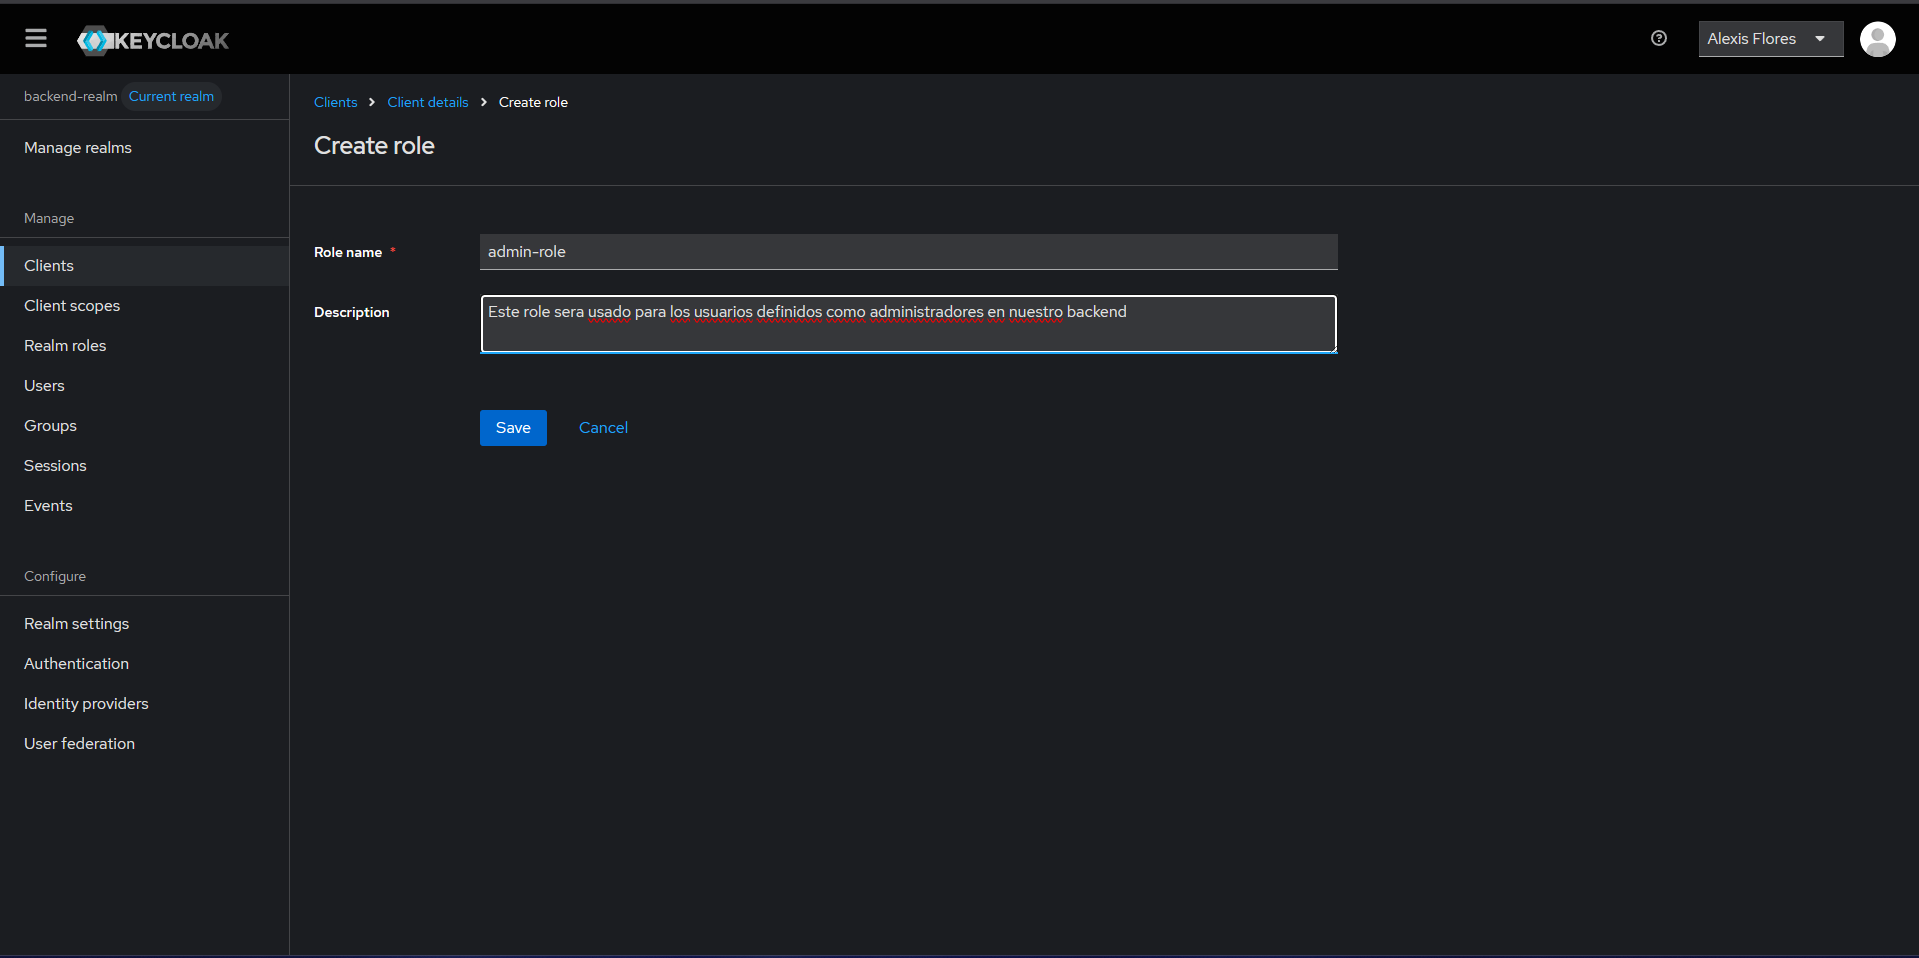
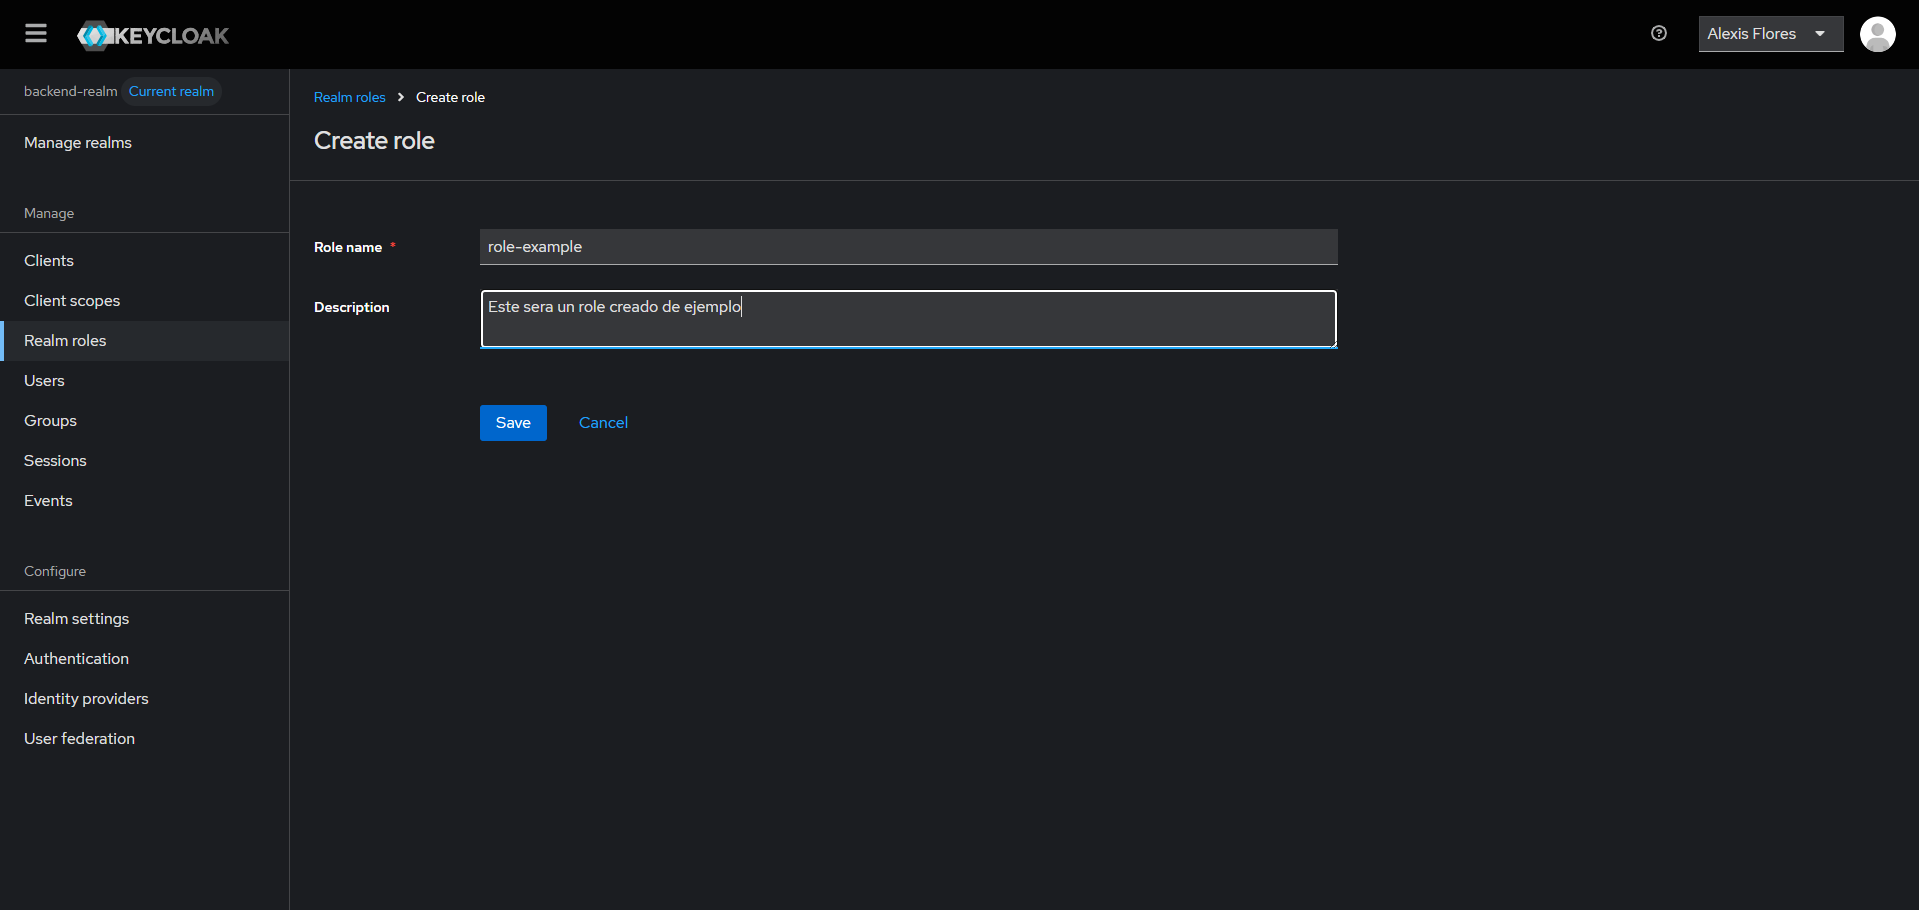
Adding all labo

diff --git a/codelab.md b/codelab.md
@@ -256,9 +256,9 @@ Se utiliza cuando queremos que nuestros roles tengan un alcance global en nuestr
 - Client roles
 Se utiliza cuando se quieren que los roles solo sean creados para un cliente en especifico.
 
-En esta ocasion, ya que estamos haciendo un patron BFF y el unico que podra acceder a nuestro Keycloak, es nuestra API a traves de su cliente, optaremos por crear roles en nuestro cliente.
+En esta ocasion, usaremos Realm Roles, ya que son mas faciles de manejar
 
-Para ello, nos dirigimos a la seccion de **Clients** hacemos clic en el que hemos creado, vamos al apartado de **Roles**, damos clic en **Create role** y creamos uno.
+Para ello, nos dirigimos a la seccion de **Realm Roles**, damos clic en **Create role** y creamos uno.
 Ejemplo:
 
 ![alt-text-here](./images/NewRole.png)
@@ -483,3 +483,363 @@ Al solicitrar esa interfaz en algun controlador de java o servicio, deberiamos o
 >aside positive
 > #### ✅Nueva tecnologia
 > Ahora ya sabemos un poco acerca del uso de OpenFeign y como se hacen peticiones a otras API's o Microservicios
+
+## Usando Keycloak con SpringBoot 
+
+### Autenticacion del cliente
+Ya que hemos aprendido como usar un poco OpenFeign, la teoria acerca de Keycloak y ya teniendo creados, nuestro realm, nuestro cliente y asignado los roles necesarios a nuestro cliente. El siguiente paso es hacer que nuestro cliente se pueda autenticar contra Keycloak y nos permita hacer peticiones para crear usuarios o que estos puedan consultar su token.
+
+En primera instancia, configuraremos la conexion entre nuestro cliente backend y keycloak
+
+### Creando carpetas
+
+Para ello necesitaremos algunas carpetas adicionales.
+Como sabemos, comunmente estamos trabajando con
+- Controller
+- Service
+    - ServiceImpl
+- Repository
+- Domain
+    - Entity
+    - DTO
+- Configuration o Config
+
+Ahora agregaremos algunas carpetas mas
+- Client
+    - Keycloak (dentro de Client)
+- Configuration o Config
+    - Keycloak (dentro de Config o Configuration)
+    - SpringSecurity (dentro de Config o Configuration)
+
+### Domain - DTO
+Antes de definir el metodo con el cual estaremos recibiendo tokens y enviandolos en nuestras peticiones a Keycloak, necesitamos definir cque recibiran o enviaran estas peticiones.
+Para ello crearemos nuestro DTO principal, con la siguiente forma:
+
+```java
+@Data
+public class KeycloakTokenResponse {
+    @JsonProperty("access_token")
+    private String accessToken;
+    @JsonProperty("expires_in")
+    private String expiresIn;
+    @JsonProperty("token_type")
+    private String tokenType;
+}
+```
+
+Este DTO permitira que Keycloak nos transmita nuestro token, el tiempo de expiracion y el tipo.
+
+### Config - Keycloak
+
+Ahora necesitamos definir algunas configuraciones principales para la conexion a Keycloak.
+
+Primero, necesitamos crear un objeto el cual sera el encargado de almacenar nuestras propiedades de Keycloak almacenadas en nuestro application.yml
+
+En primer lugar, necesitamos indicarle a nuestra aplicacion que queremos permitir el acceso a nuestro application.yml a traves de clases.
+
+Esto se hara desde nuestro MainApplication con la anotacion:
+```java
+@ConfigurationPropertiesScan
+```
+
+Spring Boot, por defecto, no escanea automáticamente las clases anotadas con @ConfigurationProperties si no están registradas como beans (por ejemplo, con @Component o en un @Bean en una clase @Configuration)
+
+Asi que esto solucionara ese problema
+
+haciendo que nuestro MainApplication ahora tenga la siguiente estructura:
+```java
+@SpringBootApplication
+@EnableFeignClients
+@ConfigurationPropertiesScan
+public class DemoKeycloakApplication {
+
+    public static void main(String[] args) {
+        SpringApplication.run(DemoKeycloakApplication.class, args);
+    }
+
+}
+```
+#### KeycloakProperties
+Una vez realizada esta configuracion, ahora si procederemos a crear un archivo llamado **KeycloakProperties** dentro de Config -> Keycloak, el cual tendra el siguiente bloque de codigo:
+```java
+@ConfigurationProperties(prefix = "keycloak")
+@Data
+public class KeycloakProperties {
+    private String serverUrl;
+    private String clientId;
+    private String clientSecret;
+    private String realm;
+}
+```
+
+Esto extraera automaticamente las propiedades en nuestro application.yml y los inyectara en esa clase cada vez que se use.
+
+#### KeycloakAuthFeignConfig
+El archivo KeycloakAuthFeignConfig configura cómo Feign (OpenFeign) enviará datos codificados en formularios (application/x-www-form-urlencoded), que es el formato requerido por Keycloak para obtener el token de acceso (en el flujo de password o client_credentials).
+
+Este archivo tiene las siguientes funciones principales:
+- Permite que Feign haga login correctamente en Keycloak
+- Convierte peticiones Java a x-www-form-urlencoded (formato necesario para keycloak)
+
+Sabiendo la funcionalidad que tendra este archivo, procederemos a crearlo, teniendo este la siguiente estructura:
+
+```java
+@Configuration
+public class KeycloakAuthFeignConfig {
+
+    private final ObjectFactory<HttpMessageConverters> messageConverters;
+
+    public KeycloakAuthFeignConfig(ObjectFactory<HttpMessageConverters> messageConverters) {
+        this.messageConverters = messageConverters;
+    }
+
+    @Bean
+    public FormEncoder feignFormEncoder() {
+        return new FormEncoder(new SpringEncoder(this.messageConverters));
+    }
+}
+```
+
+### Client - Keycloak
+Antes de seguir creando archivos de configuracion, necesitamos crear nuestro metodo para obtener el token de Keycloak con OpenFeign (este metodo aplica tanto para clientes como para usuarios normales)
+
+#### iKeycloakAuthClient
+Procederemos a crear nuestra primera interfaz de autenticacion con la cual obtendremos el token de un usuario/client deseado. Archivo para el cual usaremos la siguiente estructura:
+
+```java
+//Define un cliente de OpenFeign con el nombre keycloak-service en la url donde esta almacenado nuestra instancia de Keycloak
+//La linea de configuration permite interceptar la peticion y configurar el formato a uno valido para Keycloak
+@FeignClient(name = "keycloak-service", url = "${keycloak.server-url}", configuration = KeycloakAuthFeignConfig.class)
+public interface iKeycloakAuthClient {
+    // Metodo de tipo post realizado a nuestro realm, mediante el protocolo openid-connect que obtendra un token y envia un Body de tipo MultiValueMap<String, String> con el nombre formData. Esta funcion devuelve un KeycloakTokenResponse, definido anteriormente
+    @PostMapping(value = "/realms/${keycloak.realm}/protocol/openid-connect/token", consumes = MediaType.APPLICATION_FORM_URLENCODED_VALUE)
+    public KeycloakTokenResponse getToken(@RequestBody MultiValueMap<String, String> formData);
+
+}
+```
+
+
+### Config - Keycloak
+Volviendo a nuestro paquete de configuraciones de Keycloak, ahora necesitamos crear alguna forma de interceptar nuestras peticiones para que estas puedan obtener un token valido para nuestro cliente y podamos realizar operaciones asociadas a nuestros roles como cliente
+
+#### KeycloakFeignInterceptorConfig
+
+Este archivo permitira, cada vez que se haga una peticion, obtener un token valido para nuestro cliente (Solo cuando se tengan que hacer proceso administrativos como crear clientes).
+
+Este tendra la siguiente estructura:
+``` java
+@Configuration
+@RequiredArgsConstructor
+public class KeycloakFeignInterceptorConfig {
+    // A traves de keycloakAuthClient podemos acceder al metodo getToken
+    private final iKeycloakAuthClient keycloakAuthClient;
+    // Obtenemos las properties asociadas en nuestro application.yml
+    private final KeycloakProperties keycloakProperties;
+
+    @Bean
+    public RequestInterceptor getKeycloakAuthInterceptor() {
+        return requestTemplate -> {
+            //devolvemos una requestTemplate con un MultiValueMap<String, String> que contendra los siguientes valores
+            MultiValueMap<String, String> form = new LinkedMultiValueMap<>();
+            // El Id de nuestro Client en Keycloak
+            form.add("client_id", keycloakProperties.getClientId());
+            // El Secret de nuestro Client en Keycloak
+            form.add("client_secret", keycloakProperties.getClientSecret());
+            //Especificamos que el tipo de entidad que se esta autenticando es un client mediante client credentials
+            form.add("grant_type", "client_credentials");
+
+            //Obtenemos un token valido para nuestro cliente
+            KeycloakTokenResponse token = keycloakAuthClient.getToken(form);
+
+            //Lo inyectamos en el header de nuestra peticion
+            requestTemplate.header("Authorization", "Bearer " + token.getAccessToken());
+        };
+    }
+}
+```
+### Client - Keycloak
+
+#### iKeycloakAdminClient
+Una vez creada la logica para la intercepcion de peticiones a Keycloak y como autenticar a nuestro cliente, necesitamos crear el metodo para registrar usuarios en nuestra instancia.
+Para ello, crearemos una interfaz con OpenFeign que nos permitira realizar este proceso. Esta interfaz tendra la siguiente estructura:
+```java
+///Define un cliente de Feign llamado feign-admin que apunta al url donde esta nuestra instancia de Keycloak y mediante configuracion, permitira que la peticion sea interceptada y se pueda inyectar un token valido para nuestro cliente
+@FeignClient(name = "feign-admin", url = "${keycloak.server-url}", configuration = KeycloakFeignInterceptorConfig.class)
+public interface iKeycloakAdminClient {
+    //Metodo post realizado al realm que hemos creado al apartado de users que nos devolvera una Response de Feign (Asegurar que la importacion de Response venga de import feign.Response)
+    @PostMapping("/admin/realms/${keycloak.realm}/users")
+    Response createUser(@RequestBody Map<String, Object> user);
+}
+```
+
+### Config - SpringSecurity
+#### SecurityConfig
+Muy probablemente, si implementamos un controlador e intentamos acceder a el, obtendremos Unauthorized en nuestras peticiones. Y es que a pesar de tener configurada la emision de JWT con Keycloak, aun no hemos definido que rutas estaran o no protegidas para ciertos roles o momentos.
+Para ello, configuraremos el Security de Spring de la siguiente manera.
+Procedemos a crear el archivo SpringSecurity, el cual tendra la siguiente estructura:
+```java
+@Configuration
+@EnableWebSecurity
+public class SecurityConfig {
+
+    @Bean
+    public SecurityFilterChain filterChain(HttpSecurity http) throws Exception {
+        http
+                .csrf(AbstractHttpConfigurer::disable)
+                .authorizeHttpRequests(auth -> auth
+                        .requestMatchers("/api/demo/register","/api/demo/login" , "/public/**").permitAll()
+                        .anyRequest().authenticated()
+                )
+                .oauth2ResourceServer(resource -> resource.jwt(jwt -> jwt.jwtAuthenticationConverter(new JwtAuthConverter())));
+        return http.build();
+    }
+}
+```
+Donde en **RequestMatchers**.permitAll(), se encontraran todas las rutas que deseamos dejar abiertas.
+
+>aside negative
+> #### ⚠ Importante
+> Probablemente este ultimo codigo nos de error, para ello, necesitamos crear unos cuantos archivos que se detallan en la siguiente pagina
+
+## Otros archivos necesarios
+### Service
+```java
+public interface iAuthService {
+
+    KeycloakTokenResponse register(CreateUserDTO user) throws Exception;
+    KeycloakTokenResponse login(String username, String password);
+}
+```
+#### Service - ServiceImpl
+```java
+@Service
+@RequiredArgsConstructor
+public class AuthServiceImpl implements iAuthService {
+
+    private final iKeycloakAdminClient keycloakAdminClient;
+    private final iKeycloakAuthClient keycloakAuthClient;
+    private final KeycloakProperties keycloakProperties;
+
+    @Override
+    public KeycloakTokenResponse register(CreateUserDTO user) throws Exception {
+        Response response = keycloakAdminClient.createUser(createUserDtoToMap(user));
+        if (response.status() != 201) throw new Exception("Failed to create user: " + new String(response.body().asInputStream().readAllBytes(), StandardCharsets.UTF_8));
+        String userId = getUserIdFromKeycloakResponse(response);
+        return login(user.getUserName(), user.getPassword());
+    }
+
+    @Override
+    public KeycloakTokenResponse login(String username, String password) {
+        return keycloakAuthClient.getToken(loginToFormData(username, password, keycloakProperties.getClientId(), keycloakProperties.getClientSecret()));
+    }
+}
+```
+
+### Utils
+```java
+public class UserIdFromKeycloak {
+    public static String getUserIdFromKeycloakResponse(Response response){
+        String location = response.headers().get("Location").stream()
+                .findFirst()
+                .orElseThrow(() -> new RuntimeException("Location header not found in response"));
+        return location.substring(location.lastIndexOf("/") + 1);
+    }
+}
+```
+### Utils - Mappers
+```java
+public class GeneralMappers {
+    public static Map<String, Object> createUserDtoToMap(CreateUserDTO user) {
+        return Map.of(
+                "username", user.getUserName(),
+                "email", user.getEmail(),
+                "firstName", user.getFirstName(),
+                "lastName", user.getLastName(),
+                "enabled", true,
+                "emailVerified", true,
+                "credentials", List.of(Map.of("type", "password", "value", user.getPassword(), "temporary", false))
+        );
+    }
+
+    public static MultiValueMap<String, String> loginToFormData(String username, String password, String clientId, String clientSecret) {
+        MultiValueMap<String, String> formData = new LinkedMultiValueMap<>();
+        formData.add("username", username);
+        formData.add("password", password);
+        formData.add("grant_type", "password");
+        formData.add("client_id", clientId);
+        formData.add("client_secret", clientSecret);
+        return formData;
+    }
+}
+```
+
+### Domain
+#### Domain - DTO
+```java
+@Data
+public class CreateUserDTO {
+    @JsonProperty("username")
+    private String userName;
+    @JsonProperty("email")
+    private String email;
+    @JsonProperty("first_name")
+    private String firstName;
+    @JsonProperty("last_name")
+    private String lastName;
+    @JsonProperty("password")
+    private String password;
+}
+```
+
+### Controller
+```java
+@RestController
+@RequiredArgsConstructor
+@RequestMapping("/api/demo")
+public class DemoController {
+    private final iAuthService authService;
+
+    @PostMapping("/register")
+    public ResponseEntity<KeycloakTokenResponse> register(@RequestBody @Valid CreateUserDTO user) throws Exception {
+        return ResponseEntity.ok(authService.register(user));
+    }
+
+    @PostMapping("/login")
+    public ResponseEntity<KeycloakTokenResponse> login(@RequestParam("username") String username, @RequestParam("password") String password) {
+        return ResponseEntity.ok(authService.login(username, password));
+    }
+    @PreAuthorize("hasRole('role-user')")
+    @GetMapping("/auth-test")
+    public ResponseEntity<String> test() {
+        return ResponseEntity.ok("Test endpoint is working!");
+    }
+}
+```
+
+### Configuration
+#### Configuration - SpringSecurity
+```java
+public class JwtAuthConverter extends JwtAuthenticationConverter {
+    public JwtAuthConverter() {
+        JwtGrantedAuthoritiesConverter delegate = new JwtGrantedAuthoritiesConverter();
+        delegate.setAuthoritiesClaimName("realm_access.roles");
+        delegate.setAuthorityPrefix("ROLE_");
+        this.setJwtGrantedAuthoritiesConverter(delegate);
+    }
+}
+```
+
+>aside negative
+> #### ⚠ Importante
+> Si necesitas una descripcion mas detallada acerca de los ultimos archivos creados, hacelo saber a tu instructor para que pueda ayudarte
+
+>aside positive
+> #### ✅Keycloak Implementado
+> Hemos visto paso a paso la implementacion de Keycloak con SpringBoot. 
+> Con esta estructura basica, ya puedes aplicar tu logica de negocios y hacer diferentes procesos para tus usuarios.
+
+## Ejercicio practico
+### Definir roles por defecto
+Como tal, a un nuevo usuario creado, nunca se le asigna uno de los roles que nosotros hemos creado, por lo cual, no podemos verificar que posea ese rol.
+Tu tarea como desarrollador es investigar acerca de como asignarle un rol por defecto a todos los usuarios (Recordar que estamos usando Realm Roles).
+Y tambien como asignar o remover roles de un usuario.
